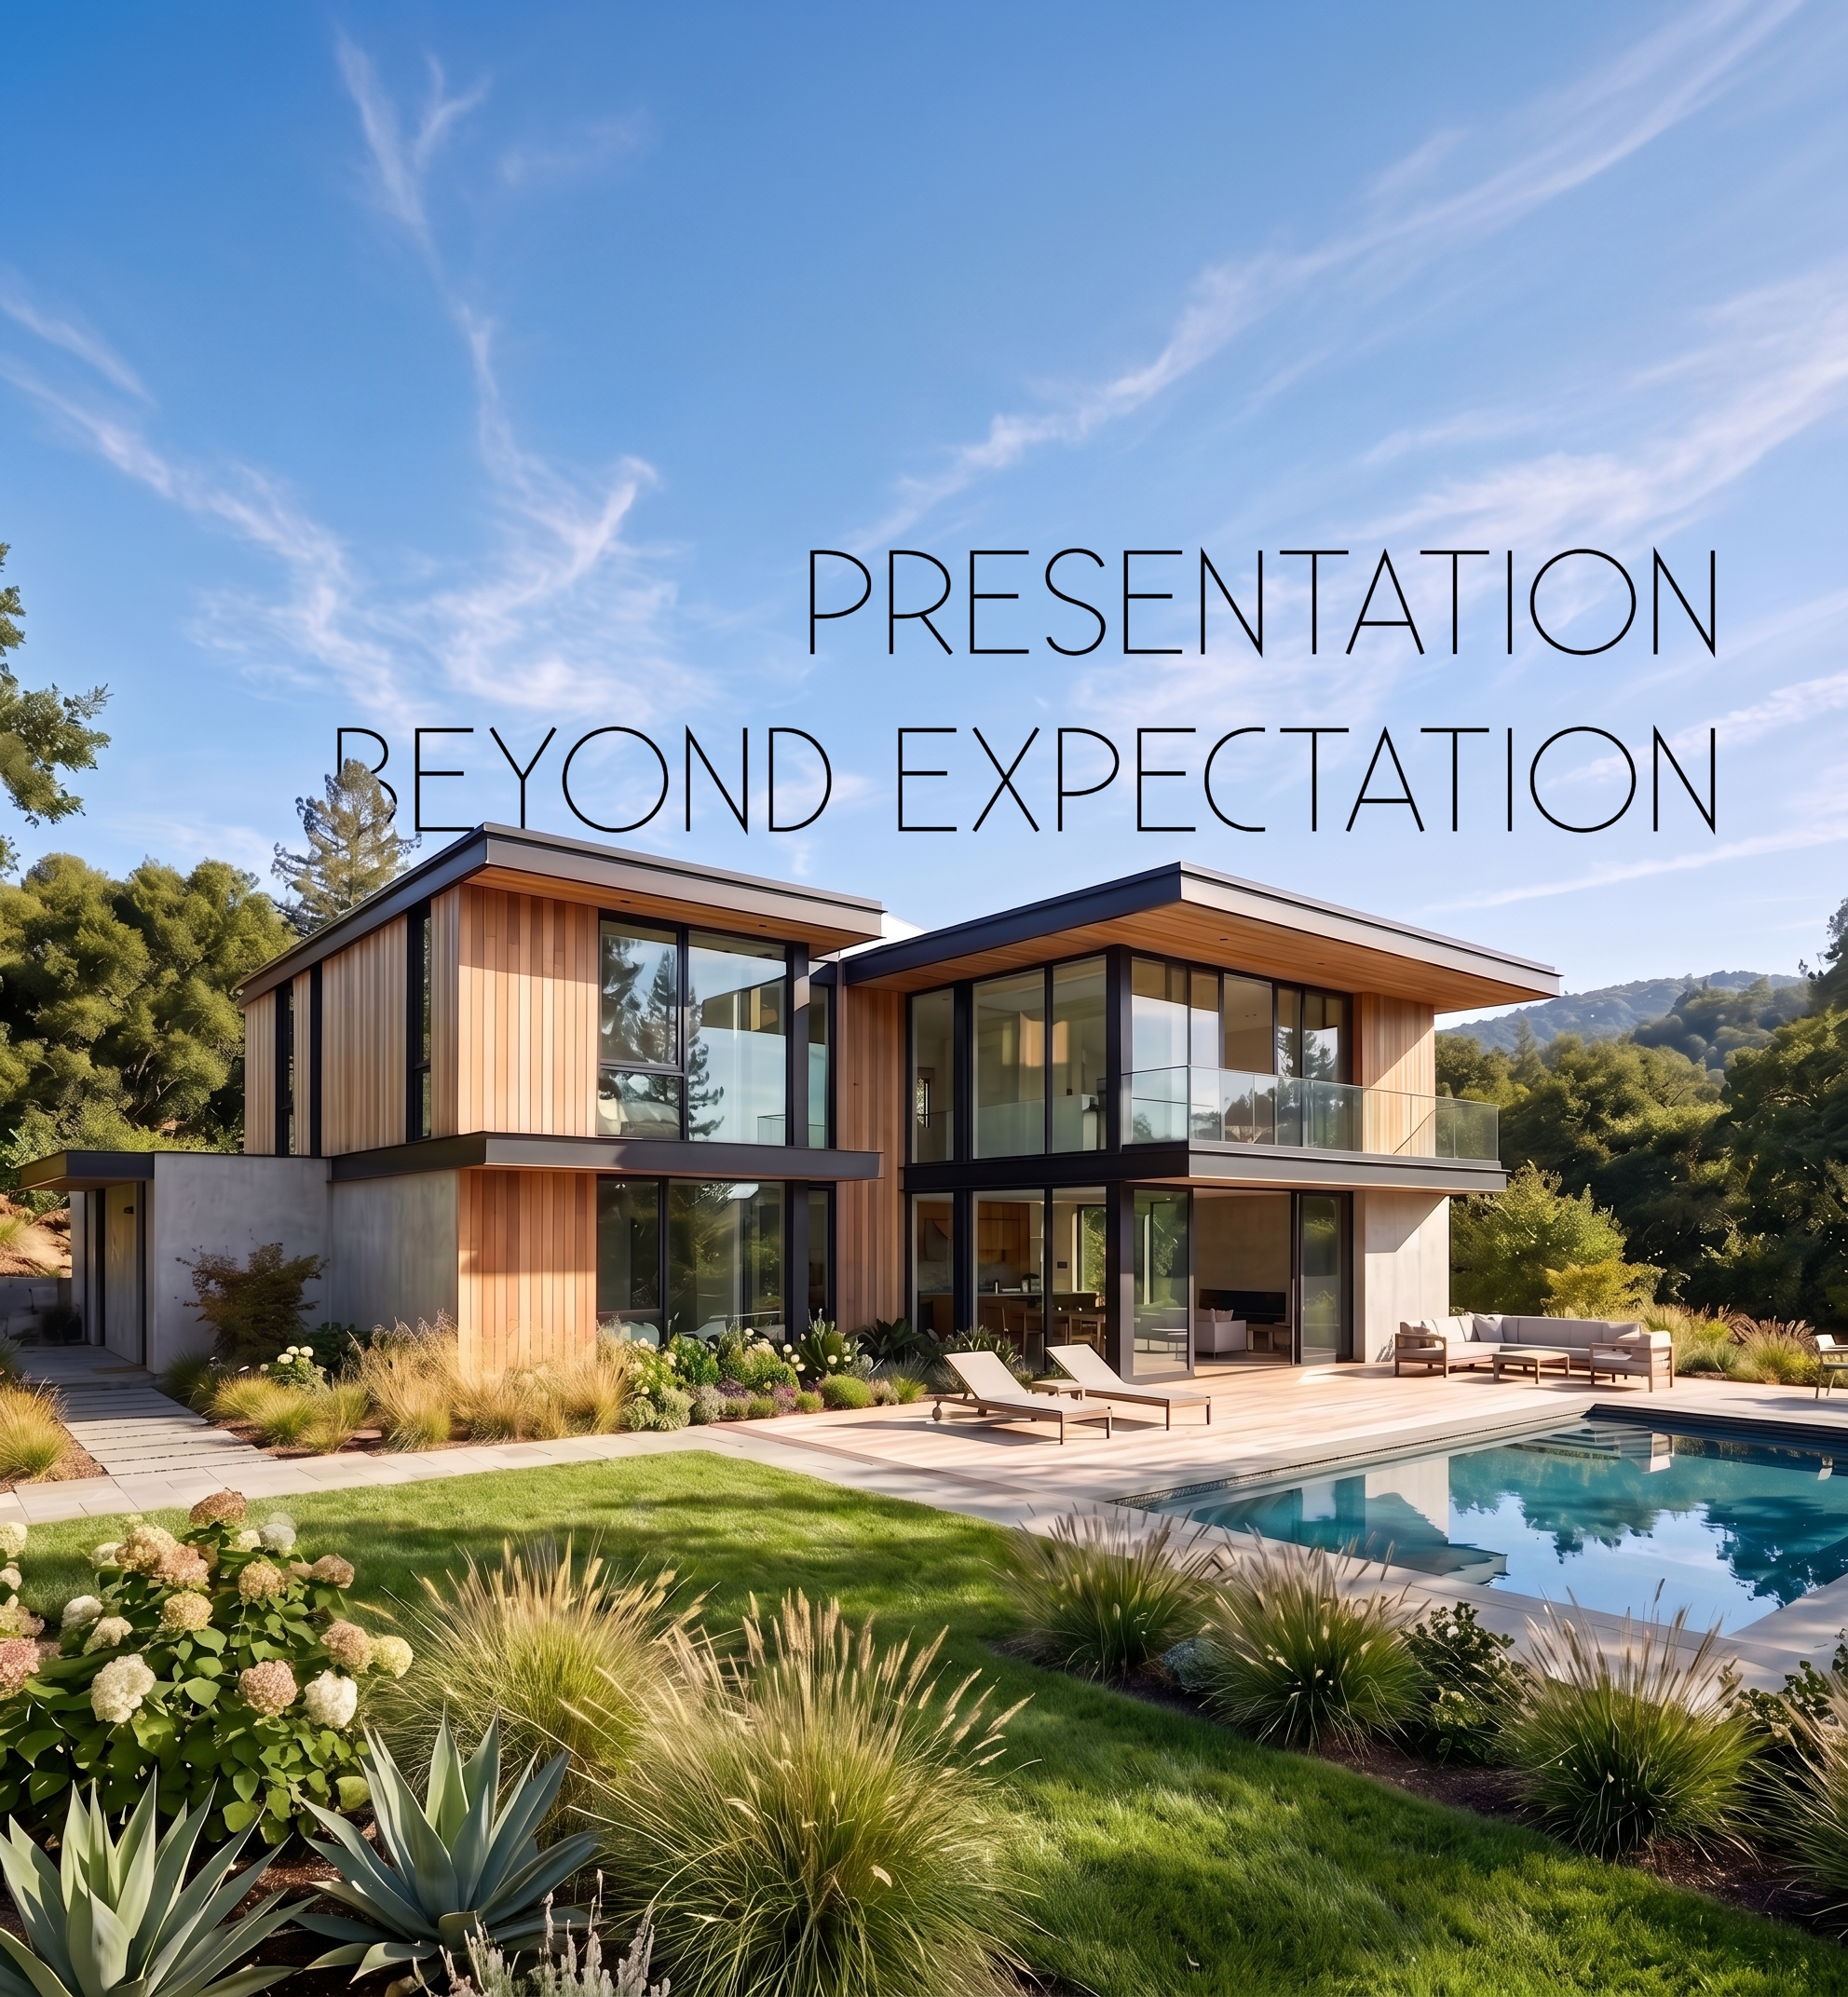
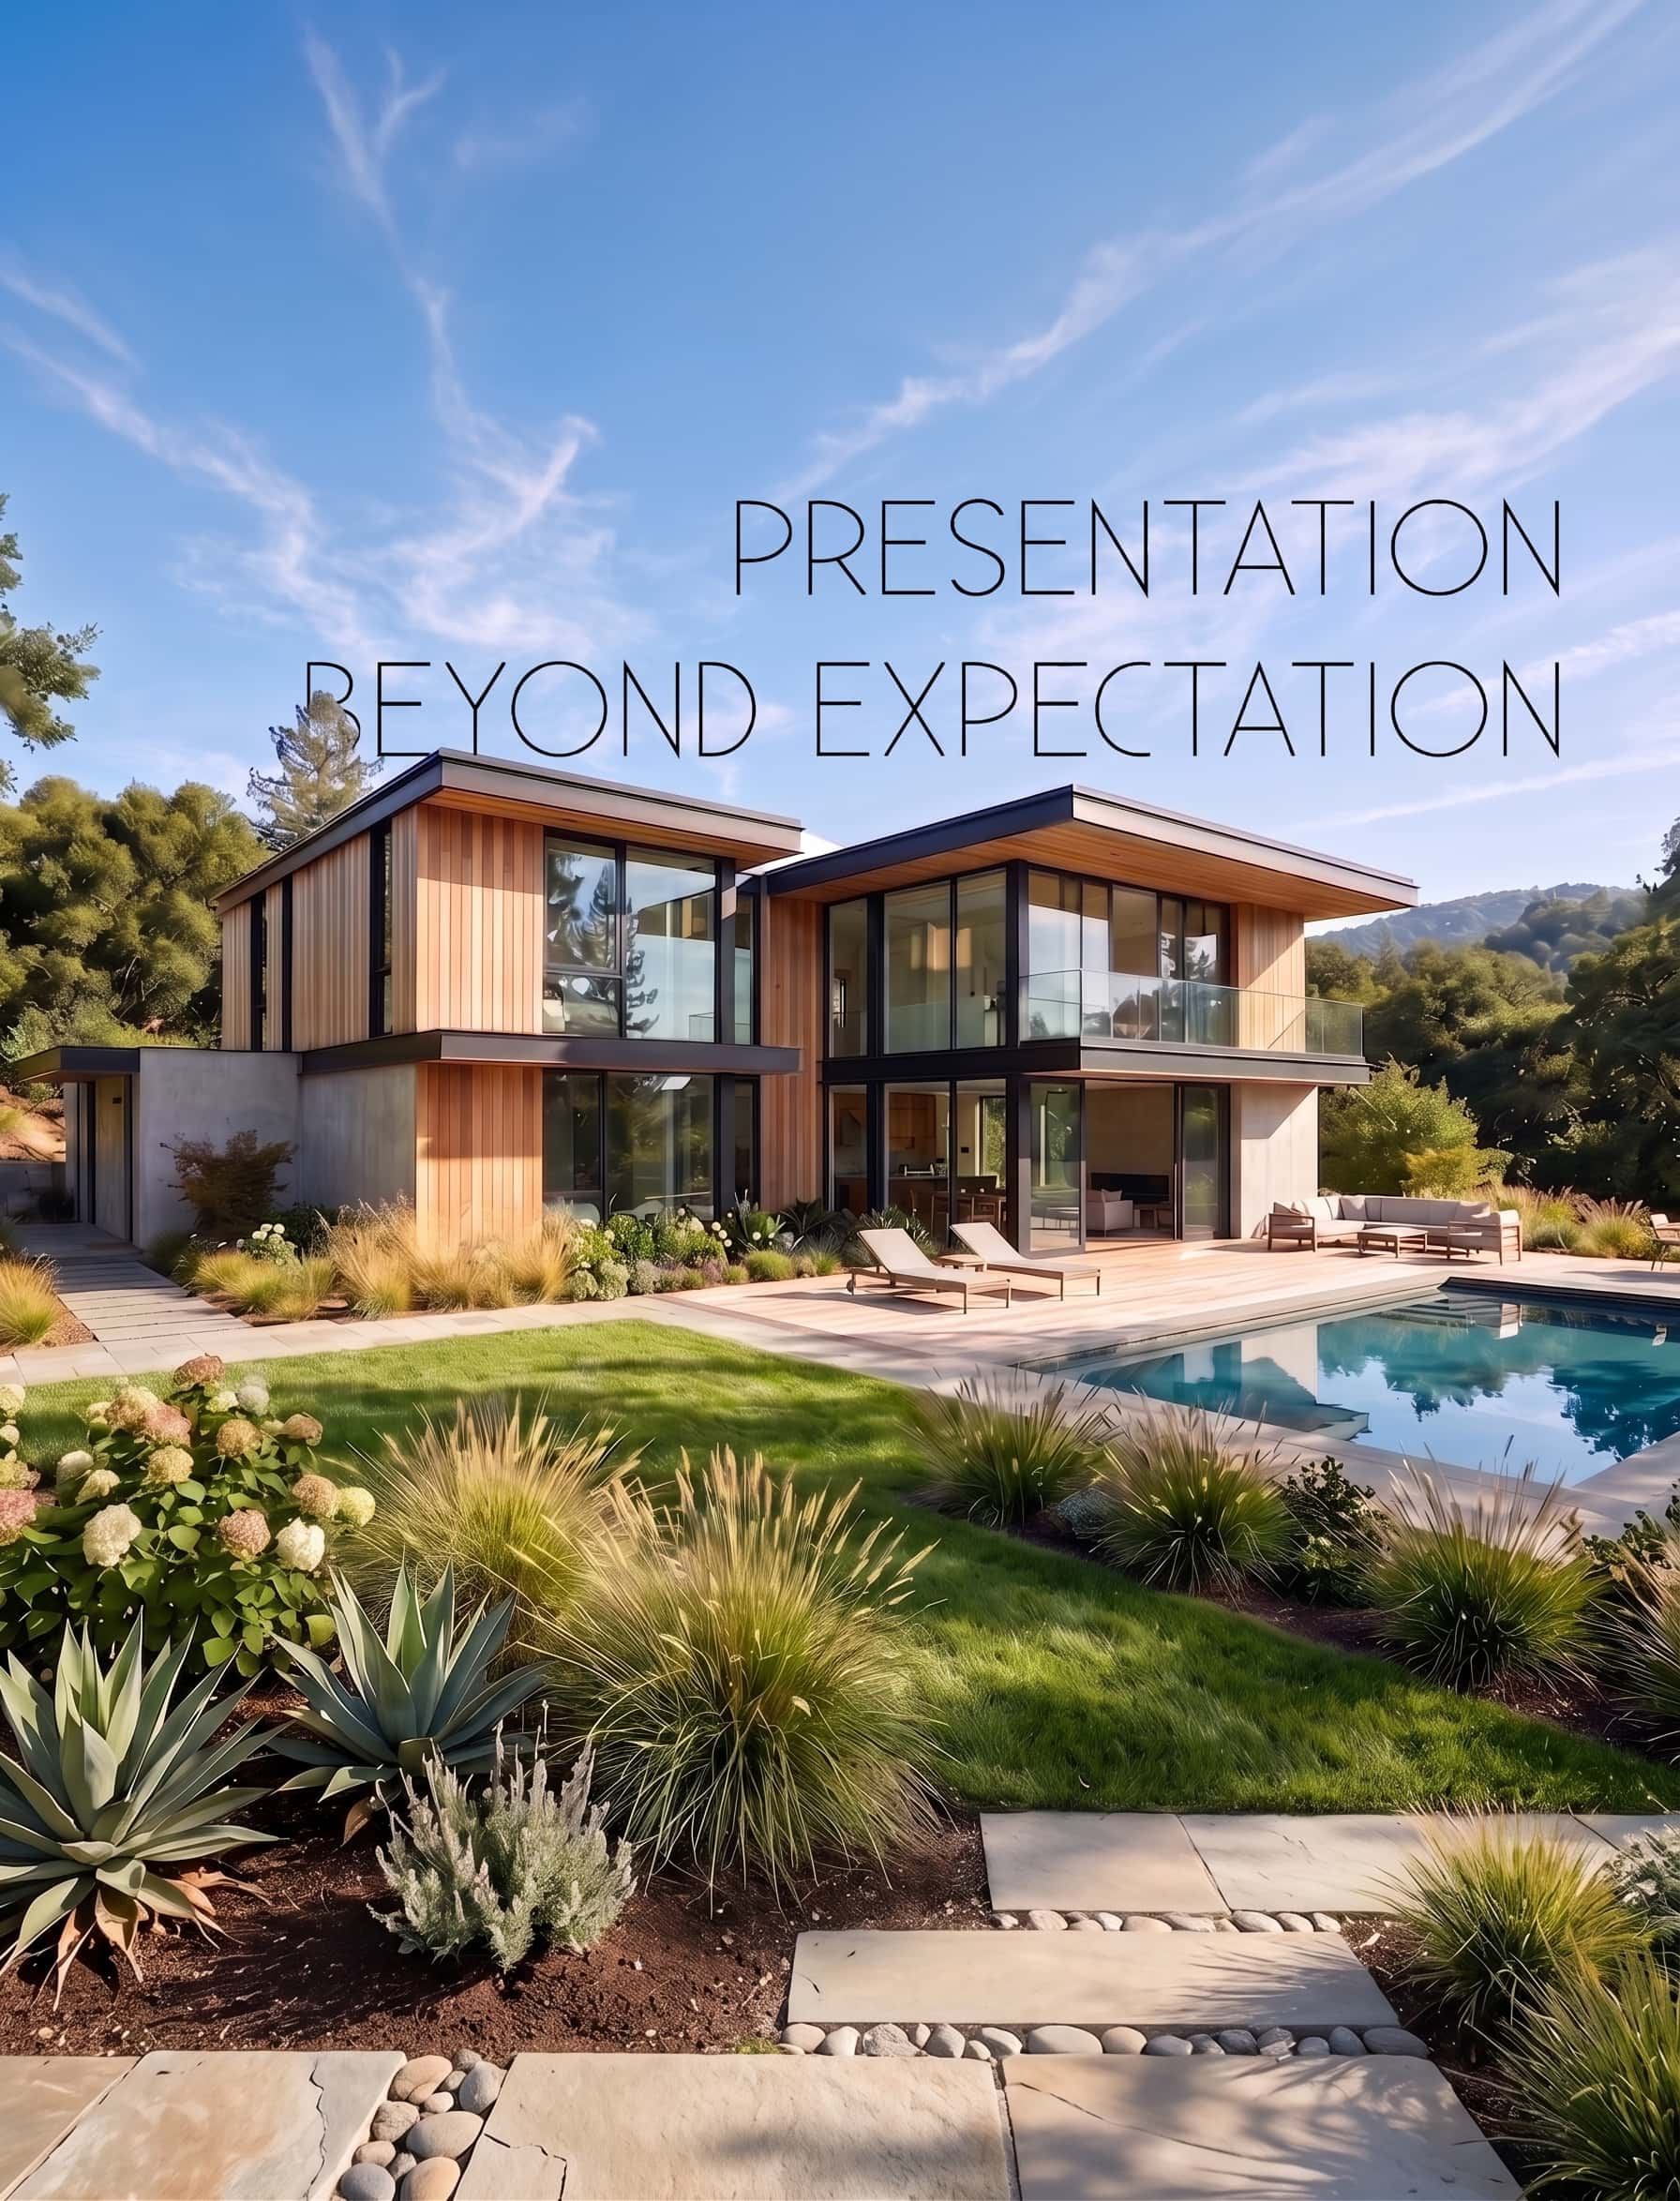
style(archviz): adjust desktop hero section background image position

diff --git a/public/projects/archviz/code.html b/public/projects/archviz/code.html
@@ -325,7 +325,7 @@
         @media (min-width: 768px) {
             .parallax-bg {
                 background-attachment: fixed;
-                background-position: center 33%;
+                background-position: center 20%;
             }
         }
 